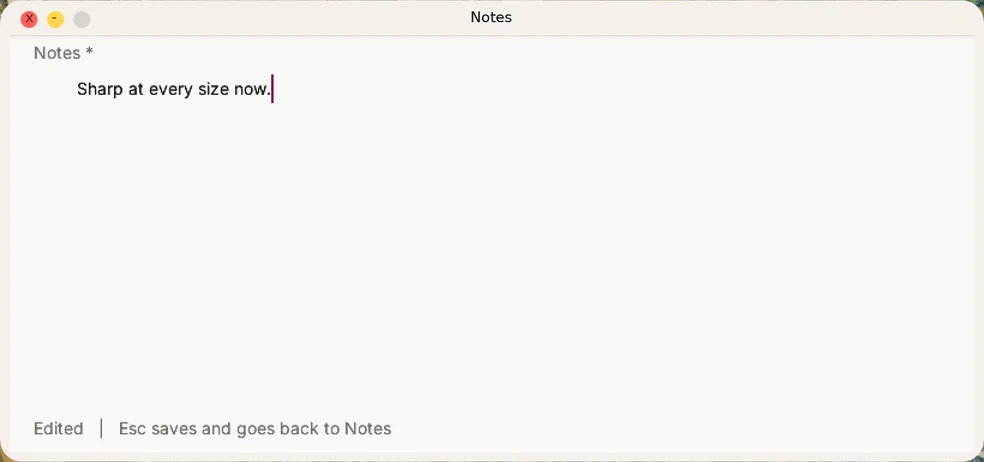
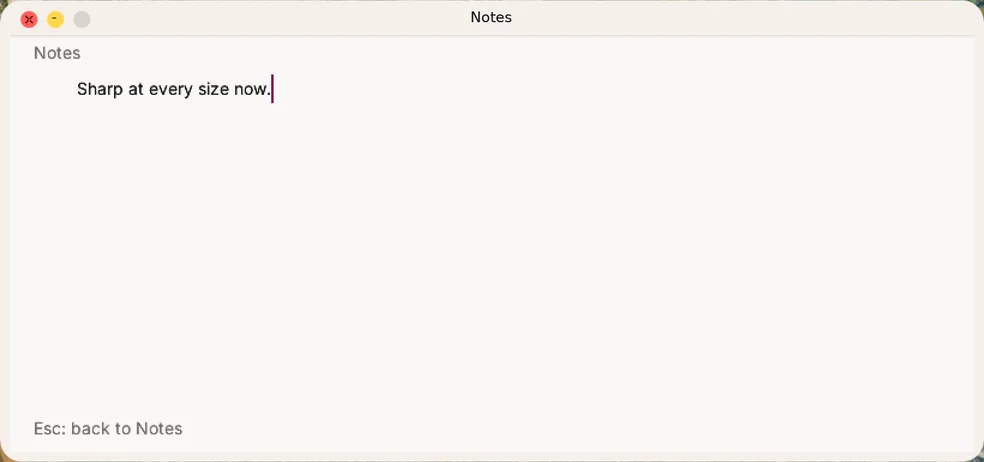
4.11.5: Notes on the Pi autosaves with no network (#623)
* 4.11.2: Notes on the Pi autosaves with no network

The autosave timed on JT_SYS_TIME, which is 0 until the network sets the clock, so an offline Pi never saved a typed line. It now times on the uptime ticks.

Claude-Session: https://claude.ai/code/session_01BJ1se7a1CXnug4Z9PR4UtU

* 4.11.5: rebased onto main

* 4.13.1: rebased onto main

---------

Changed region(s): [[0.0305, 0.9091, 0.3963, 0.9394]]

diff --git a/landing/index.html b/landing/index.html
@@ -661,7 +661,7 @@ p,li,.sub{text-wrap:pretty}
 <section class="facts reveal" aria-label="Joshua Tree by the numbers">
   <div class="facts-row two">
     <div class="fact"><strong><span data-fact="apps">32</span></strong><span class="label">Apps</span></div>
-    <div class="fact"><strong>v<span data-fact="version">4.13.0</span></strong><span class="label">Version</span></div>
+    <div class="fact"><strong>v<span data-fact="version">4.13.1</span></strong><span class="label">Version</span></div>
   </div>
   <div class="boot-cta">
     <a class="boot-btn" href="https://github.com/nulljosh/joshuatree/releases/latest/download/joshuatree.iso">Download PC ISO</a>
@@ -923,7 +923,7 @@ p,li,.sub{text-wrap:pretty}
     </div>
   </nav>
   <div class="foot-bar">
-    <p class="foot-meta">Joshua Tree v<span data-fact="version">4.13.0</span> &middot; Apache License 2.0 &middot; &copy; 2026 Joshua Trommel &middot; Made with <span class="heart">&hearts;</span> in Vancouver, BC</p>
+    <p class="foot-meta">Joshua Tree v<span data-fact="version">4.13.1</span> &middot; Apache License 2.0 &middot; &copy; 2026 Joshua Trommel &middot; Made with <span class="heart">&hearts;</span> in Vancouver, BC</p>
   </div>
   <div class="foot-landscape" aria-hidden="true"><canvas></canvas></div>
 </footer>

diff --git a/tools/checks/arm64-notes-check.py b/tools/checks/arm64-notes-check.py
@@ -13,6 +13,12 @@ hid_kbd, the parser a real keyboard's reports go through, one key every 150 ms f
   3. notesr-kernel8.img on the same card, as after a reboot: the same keys open Notes, which lists the note
      ("notes: folders=01 notes=01"); the window is pixel for pixel the one boot 1 left after saving; then Enter opens it
      in the editor ("notes: edit=N0000001.TXT"), with ink on its first line and none on the second.
+  4. Autosave with no network (4.11.2): notesa-kernel8.img types a line and never presses Esc, waits four seconds, then clicks
+     the window's red dot, which ends the program the kill way. The Pi has no clock until the network sets one, so JT_SYS_TIME
+     stays 0 here and Notes must time its two seconds on the uptime ticks (SYS_TASKS) instead. The program saves the line by
+     itself ("notes: saved=23" once, no "notes: closed", "closed by its red dot"), mtools finds it on the card, and notesr on
+     the same card lists it and opens it with ink on the first line. `--mutate` puts the old JT_SYS_TIME timing back in
+     user/notes.c, rebuilds, runs only this case and passes only if it FAILS (the file is restored afterwards).
 Once Notes starts, no EL0 fault, no KERNEL CRASH, no `sd FAIL` and no exit, in either boot. Skips (exit 0) without clang, ld.lld, qemu-system-aarch64,
 its raspi4b model, or mtools.
 Usage: tools/checks/arm64-notes-check.py   (from the repo root)
@@ -103,8 +109,71 @@ def ink(rows, x0, y0, w, h):   # dark pixels in a box of the crop: only INK text
 # notes.c's layout at a window under 600 wide: the notes column starts at 20 + 100 + 16, is 170 wide, and its first row's
 # text sits at COL_Y + 46 - 4 = 82; the editor's first line at ED_TOP 28, 33 rows a line, from ED_MARGIN 56.
 NOTES_COL, FIRST_ROW, EDIT_LINE0, EDIT_LINE1 = (136, 170), (74, 22), (28, 33), (61, 33)
+AUTOTEXT = b"autosaved with no clock"
+
+
+def autosave_case():
+    """Section 4. A fresh card, notesa (types, waits, red dot), the card read from the host, then notesr to find the text again."""
+    card2 = os.path.join(TMP, "card2.img")
+    build_card(card2, False)
+    print("arm64 notes: autosave with no network clock, notesa-kernel8.img on a clean card")
+    b = Boot(os.path.join(arch, "notesa-kernel8.img"), card2)
+    try:
+        done = b.wait_for("notestest: done", 90)
+        out = b.uart()
+    finally:
+        b.close()
+    check("the line is typed, left alone for four seconds, and the red dot is clicked", done and in_order(out, ["notes: new=N0000001.TXT", "notestest: waiting\n", "notestest: red dot\n", "notestest: done"]), out[-900:])
+    check("Notes saved the %d bytes by itself, exactly once, before the red dot" % len(AUTOTEXT),
+          done and out.count("notes: saved=") == 1 and in_order(out, ["notes: saved=%d\n" % len(AUTOTEXT), "notestest: red dot\n"]), out[-900:])
+    check("the red dot ended the program the kill way: 'closed by its red dot', no 'notes: closed' (Esc's exit)",
+          "M3c app notes closed by its red dot" in out and "notes: closed" not in out, out[-600:])
+    for bad in ("M3 EL0 fault", "KERNEL CRASH", "sd FAIL"):
+        check("the autosave boot never printed %r once Notes started" % bad, bad not in out.partition("M3c app notes starts")[2], out[-400:])
+    def mt2(*a): return subprocess.run([a[0], "-i", f"{card2}@@{PART * 512}", *a[1:]], capture_output=True, env=MT)
+    got = mt2("mtype", "::JT/NOTES/NOTES/N0000001.TXT").stdout
+    check("JT/NOTES/NOTES/N0000001.TXT on the card holds exactly the typed line", got == AUTOTEXT, repr(got))
+    bad = []
+    clean = fat_pass(card2, "after the autosave", bad) is not None
+    check("the FAT32 pass finds the card clean after the red-dot kill", clean and not bad, bad)
+    print("arm64 notes: autosave, notesr-kernel8.img on the same card")
+    b = Boot(os.path.join(arch, "notesr-kernel8.img"), card2)
+    try:
+        up = b.wait_for("notestest: notes is up", 60)
+        done = b.wait_for("notestest: done", 60)
+        editor = b.shot() if done else None
+        out2 = b.uart()
+        wr = window(out2)
+    finally:
+        b.close()
+    check("after the reboot Notes lists the autosaved note and Enter opens it", "notes: folders=01 notes=01\n" in out2 and "notes: edit=N0000001.TXT\n" in out2, out2[-600:])
+    if wr and editor:
+        cw, chh, cx, cy = wr
+        l0 = ink(crop(editor, cx, cy, cw, chh), 56, EDIT_LINE0[0], cw - 112, EDIT_LINE0[1])
+        check("on screen, the reopened note shows its text: ink on the first line", l0 > 40, "ink %d" % l0)
+    else:
+        check("the reopened note's window was captured", False, out2[-400:])
+
+
 MT = dict(os.environ, MTOOLS_SKIP_CHECK="1")
 card = os.path.join(TMP, "card.img")
+if "--mutate" in sys.argv:   # the old timing back: JT_SYS_TIME is 0 with no clock, so 0 - 0 >= 2 never fires and the line is never saved
+    notes_c = os.path.join(root, "user/notes.c")
+    orig = open(notes_c).read()
+    good = "static unsigned now_ticks(void) { struct jt_tasks t; jt_tasks(&t, -1); return t.ticks; }"
+    if good not in orig: print("FAIL: mutation target not found in user/notes.c"); sys.exit(2)
+    open(notes_c, "w").write(orig.replace(good, "static unsigned now_ticks(void) { return (unsigned)jt_time(0) * 100; }"))
+    subprocess.run(["make", "-C", arch, "clean"], capture_output=True)
+    n0 = len(fails)
+    try:
+        r = subprocess.run(["make", "-C", arch, "notesa-kernel8.img", "notesr-kernel8.img"], capture_output=True, text=True, timeout=900)
+        if r.returncode: print("FAIL: the mutant does not build:\n" + (r.stdout + r.stderr)[-1500:]); sys.exit(2)
+        autosave_case()
+    finally:
+        open(notes_c, "w").write(orig)
+        subprocess.run(["make", "-C", arch, "clean"], capture_output=True)
+    if len(fails) > n0: print("PASS (mutation caught): with the JT_SYS_TIME timing the autosave case fails, %d checks" % (len(fails) - n0)); sys.exit(0)
+    print("FAIL: the old JT_SYS_TIME timing still passes the autosave case"); sys.exit(1)
 build_card(card, False)
 subprocess.run(["make", "-C", arch, "clean"], capture_output=True)
 try:
@@ -173,10 +242,11 @@ try:
         ed = crop(editor, cx, cy, cw, chh)
         l0, l1 = ink(ed, 56, EDIT_LINE0[0], cw - 112, EDIT_LINE0[1]), ink(ed, 56, EDIT_LINE1[0], cw - 112, EDIT_LINE1[1])
         check("on screen, the editor shows the line read back off the card: ink on the first line, none on the second", l0 > 40 and l1 == 0, "first %d, second %d" % (l0, l1))
+    autosave_case()
 finally:
     subprocess.run(["make", "-C", arch, "clean"], capture_output=True)
 
 if fails:
     print("FAIL: %d of the Notes checks failed" % len(fails)); sys.exit(1)
 print("PASS: on QEMU's raspi4b the dock opens the unchanged user/notes.c at EL0, a typed note is saved through the ARM file calls to "
-      "JT/NOTES/NOTES/N0000001.TXT on the FAT32 card (mtools reads the line, the card is clean), and after a reboot Notes lists it and opens it")
+      "JT/NOTES/NOTES/N0000001.TXT on the FAT32 card (mtools reads the line, the card is clean), and after a reboot Notes lists it and opens it; with no network clock a typed line saves itself on the uptime ticks and survives a red-dot close")

diff --git a/user/notes.c b/user/notes.c
@@ -23,9 +23,10 @@
  * (the kernel editor's own contract) into the system clipboard (SYS_CLIPBOARD); paste
  * inserts it. Esc saves (truncate-write, only if edited) and returns to browse.
  * Home, End and Delete work in the editor; Ctrl+S saves and stays in it. Autosave: a dirty
- * note saves itself AUTOSAVE_SECS RTC seconds after the last edit (JT_SYS_TIME, read only
- * while dirty; SYS_WINDOW_POLL's -EAGAIN path yields, so nothing spins), which is 1 to 2
- * real seconds because the clock counts whole seconds. The kernel has no close hook: the
+ * note saves itself AUTOSAVE_SECS seconds after the last edit, timed on the uptime ticks of
+ * SYS_TASKS (100 Hz on both kernels, read only while dirty; SYS_WINDOW_POLL's -EAGAIN path
+ * yields, so nothing spins). Not JT_SYS_TIME: the Pi has no clock until the network sets it,
+ * so offline that call stays 0 and the timer never fired. The kernel has no close hook: the
  * red dot task_kills the program, so Esc never runs and the timer is the whole protection.
  * Selection: Shift+arrows extend an anchor-to-caret range (JT_KEY_SLEFT..SDOWN), Ctrl+A
  * selects all (JT_KEY_SELALL), a 0xB4D5FE band is drawn behind the glyphs, copy and cut
@@ -58,7 +59,8 @@
 #define LIST_W (win.width < 600 ? 170 : 220)
 #define COL_Y 40
 #define ROW_H 22
-#define AUTOSAVE_SECS 2   /* RTC seconds a dirty note sits untouched before it saves itself */
+#define AUTOSAVE_SECS 2   /* seconds a dirty note sits untouched before it saves itself */
+#define TICKS_PER_SEC 100 /* SYS_TASKS ticks, the same on i386 and the Pi */
 #define KEY_COPY 302
 #define KEY_CUT 303
 #define KEY_PASTE 304
@@ -87,7 +89,8 @@ static const char *note JT_DATA = 0;
 static int editing JT_DATA = 0, elen JT_DATA = 0, epos JT_DATA = 0, escroll JT_DATA = 0;
 static int phone JT_DATA = 0;   /* argv[1] == "phone": show the on-screen keyboard in the editor */
 static int edirty JT_DATA = 0, goalx JT_DATA = -1;
-static unsigned edit_t JT_DATA = 0;   /* jt_time() of the last key that left the note dirty */
+static unsigned edit_t JT_DATA = 0;   /* uptime ticks of the last key that left the note dirty */
+static unsigned now_ticks(void) { struct jt_tasks t; jt_tasks(&t, -1); return t.ticks; }   /* uptime, 100 Hz: runs with no network and no RTC */
 static int esel JT_DATA = -1;       /* selection anchor; the selection is anchor..epos, none while -1 or equal to the caret */
 static char efile[13] JT_DATA = {0};
 static int del_armed JT_DATA = 0;   /* d once asks, d again deletes, anything else cancels */
@@ -581,8 +584,8 @@ void _start(int argc, char **argv) {
         if (r == 1 && jt_window_resized(&ev, &win)) { if (editing) { chrome_stale = 1; ed_draw(); } else draw(); flags = JT_POLL_PRESENT; continue; } /* JT_EV_RESIZE: remapped, repaint at the new size */
         flags = 0;
         if (r == -11) {
-            if (editing && edirty && (unsigned)jt_time(0) - edit_t >= AUTOSAVE_SECS) {   /* quiet for two seconds: save, drop the star */
-                if (!edit_save()) edit_t = (unsigned)jt_time(0);   /* "Save failed." shows; try again in two seconds */
+            if (editing && edirty && now_ticks() - edit_t >= AUTOSAVE_SECS * TICKS_PER_SEC) {   /* quiet for two seconds: save, drop the star */
+                if (!edit_save()) edit_t = now_ticks();   /* "Save failed." shows; try again in two seconds */
                 ed_draw();
                 flags = JT_POLL_PRESENT;
                 continue;
@@ -599,7 +602,7 @@ void _start(int argc, char **argv) {
             ev.a = key;
             if (ev.a == JT_KEY_ESC && ed_has_sel()) { esel = -1; ed_draw(); }
             else if (ev.a == JT_KEY_ESC) { edit_close(); draw(); }
-            else { ed_key(ev.a); if (edirty) edit_t = (unsigned)jt_time(0); ed_draw(); }
+            else { ed_key(ev.a); if (edirty) edit_t = now_ticks(); ed_draw(); }
             flags = JT_POLL_PRESENT;
             continue;
         }

diff --git a/arch/arm64/main.c b/arch/arm64/main.c
@@ -3639,7 +3639,7 @@ void usb_poll(void);
 void hid_kbd(const unsigned char *r, unsigned len, unsigned char *p);
 static void notes_tick(void) {
     static const char *const script = NOTES_SELFTEST == 1 ? ">>>>>\n|nhello from the pi\033" : NOTES_SELFTEST == 2 ? ">>>>>\n|\n"
-        : NOTES_SELFTEST == 3 ? ">>>>>>\n|buy milk\ncall mom\n^^ " : ">>>>>>\n|";   /* 3, 4: Reminders (arm64-reminders-check.py): the sixth tile, two adds, Up Up, Space on the first; then just open it */
+        : NOTES_SELFTEST == 3 ? ">>>>>>\n|buy milk\ncall mom\n^^ " : NOTES_SELFTEST == 5 ? ">>>>>\n|nautosaved with no clock!@" : ">>>>>>\n|";   /* 3, 4: Reminders (arm64-reminders-check.py): the sixth tile, two adds, Up Up, Space on the first; then just open it; 5: Notes with no clock set, a line typed and left, '!' waits four seconds, '@' clicks the red dot (arm64-notes-check.py) */
     static unsigned at; static unsigned long next; static unsigned char last[8]; static int done;
     unsigned long now = cnt_now();
     if (!next) next = now + cnt_hz();   /* a second after the loop starts: the desktop has settled */
@@ -3652,6 +3652,13 @@ static void notes_tick(void) {
         uart_puts("notestest: notes is up\n");
         at++; next = now + 2 * cnt_hz();   /* two seconds to take a screendump of the list before the next key */
         return;
+    }
+    if (c == '!') { uart_puts("notestest: waiting\n"); at++; next = now + 4 * cnt_hz(); return; }   /* long enough for the two second autosave to fire, with Esc never pressed */
+    if (c == '@') {   /* the red dot of the front app window, through the pointer's own click path */
+        int s = (int)window_scale();
+        mouse_x = (app_lx + 24) * s; mouse_y = (app_ly + 16) * s;
+        uart_puts("notestest: red dot\n"); pointer_click();
+        at++; next = now + 2 * cnt_hz(); return;
     }
     unsigned char down[8] = { 0 }, none[8] = { 0 };
     down[2] = c == '>' ? 0x4F : c == '\n' ? 0x28 : c == '\033' ? 0x29 : c == ' ' ? 0x2C : c == '^' ? 0x52 : (unsigned char)(0x04 + c - 'a');   /* HID usages: Right, Enter, Esc, Space, a to z */

diff --git a/docs/ROADMAP.md b/docs/ROADMAP.md
@@ -1048,6 +1048,8 @@ The one-line ideas and gates are the roadmap's long-road table (the Roadmap sect
 
 One line per version. The full release notes live in the GitHub releases and `git log`; the longer write-ups of each step are in the last commit before the docs merge (`git show 35aa01cb:docs/roadmap-done.md`).
 
+- **4.13.1 (2026-10-18)**: Notes on the Pi saves itself with no network. The two second autosave timed on the clock the network sets, which stays 0 offline, so an offline Pi never saved a typed line unless Esc was pressed. It now times on the uptime ticks. Check: `arm64-notes-check.py` types a line, waits, closes by the red dot and finds it on the card; `--mutate` brings the old timing back and must fail.
+- **4.11.2 (2026-10-18)**: Notes on the Pi saves itself with no network. The two second autosave timed on the clock the network sets, which stays 0 offline, so an offline Pi never saved a typed line unless Esc was pressed. It now times on the uptime ticks. Check: `arm64-notes-check.py` types a line, waits, closes by the red dot and finds it on the card; `--mutate` brings the old timing back and must fail.
 - **4.13.0 (2026-10-19)**: Restart and Shut Down are safe to use at any moment on the Pi. Before either, `power_apply` writes every open file descriptor to the card (`ufile_sync`, so Notes mid-save keeps its text), and a shutdown paints a plain "It is safe to unplug the power now." screen (the Pi 4 cannot cut its own power; on the board it stays up, under QEMU the watchdog still halts the model). The `reboot` and `shutdown` Terminal commands and the tree menu rows already existed and need no sudo. Checked in `tools/checks/arm64-power-check.py`: `reboot` comes back to a fresh boot, a file left unsaved survives it, `shutdown` exits QEMU, and a build without the flush loses the file.
 - **4.12.2 (2026-10-18)**: CI is about three times faster to merge. Every ARM check sat on shard 6, which took about 46 minutes while the other seven took 10 to 15; they are now packed by measured time across shards 6, 8, 9 and 10 (about 12 minutes each, all on the raspi4b runner). `ci-balance.py` keeps ARM on those four, `ci-local.sh` runs them in turn since locally they share `arch/arm64`, and the job ceiling drops from 60 to 30 minutes. Check: `ci-tooling-check.py`.
 - **4.12.1 (2026-10-18)**: The i386 desktop boots to a plain grey wallpaper instead of the satellite photo. Grey, Terracotta, Clay and Ink are the same four colours the Pi offers; they fetch nothing and are never tinted. `wallpaper grey|terracotta|clay|ink` and Settings step through them first, and the photo and map themes stay selectable. Saved `wall=0` to `wall=4` still mean what they did. Check: `walldefault-check.sh` now expects Grey.
